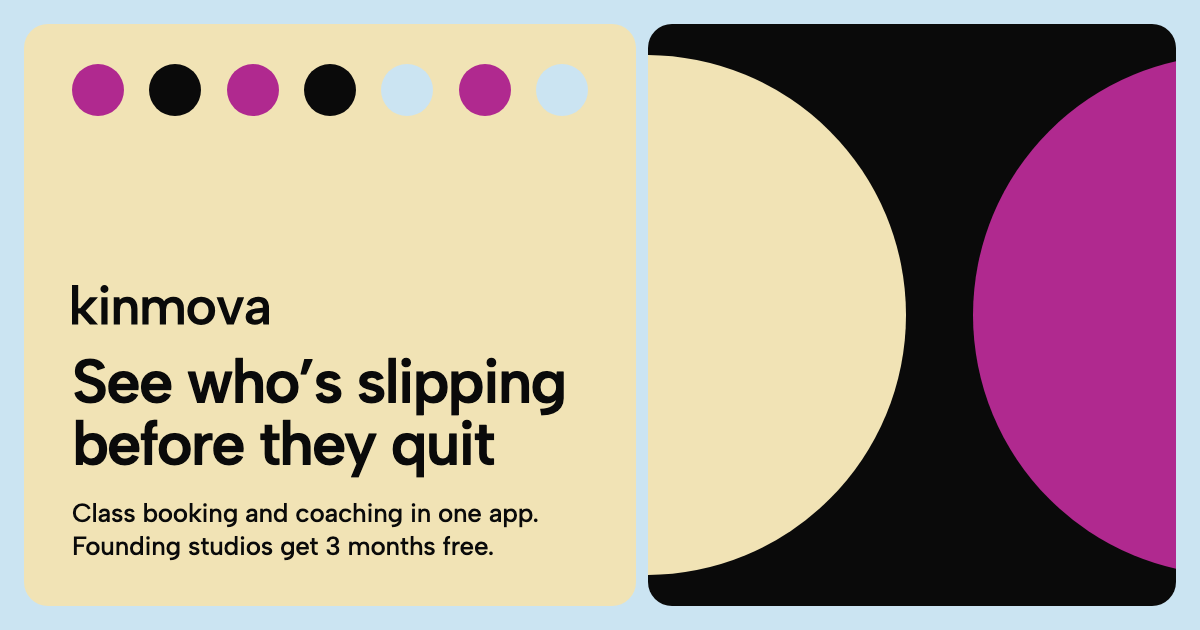
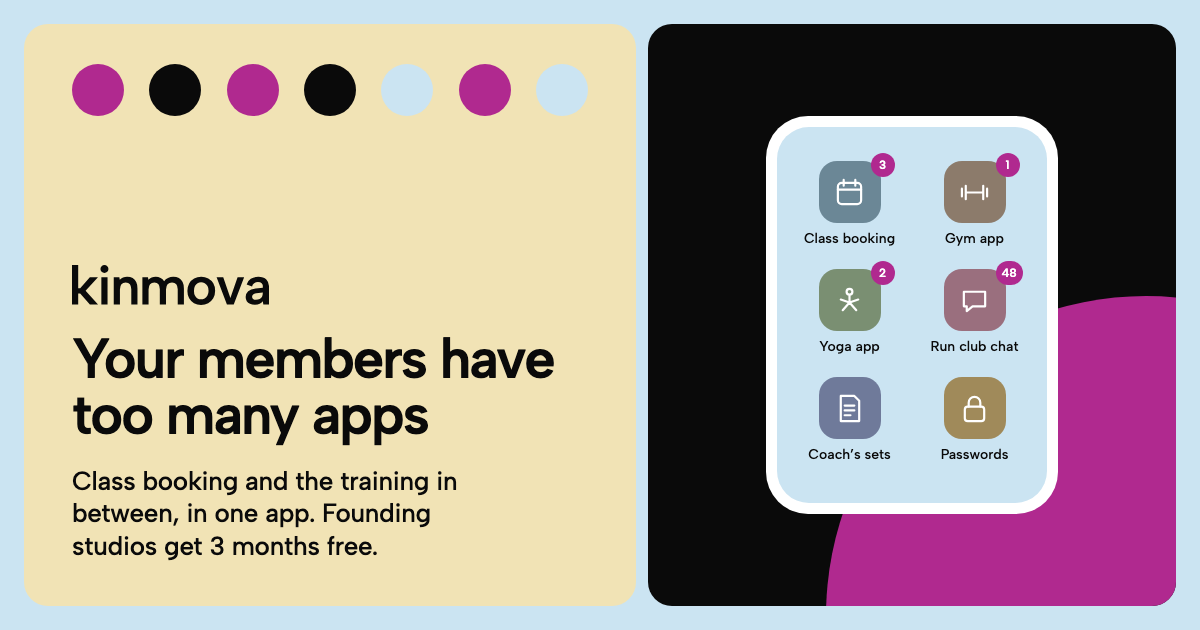
Update the link preview to "Your members have too many apps"
New share image (the phone of apps beside the headline), title,
description and alt text. The image URL carries ?v=2 so apps that
cached the old picture fetch the new one.

diff --git a/brand/social-source.html b/brand/social-source.html
@@ -12,12 +12,18 @@
   .week i { width: 52px; height: 52px; border-radius: 50%; display: block; }
   .t { background: #b0298f; } .c { background: #0a0a0a; } .r { background: #cbe4f2; }
   .word { margin-top: auto; height: 40px; width: auto; align-self: flex-start; }
-  h1 { margin: 26px 0 0; font-weight: 600; font-size: 62px; line-height: 1; letter-spacing: -0.035em; }
-  p { margin: 22px 0 0; font-weight: 500; font-size: 26px; line-height: 1.25; letter-spacing: -0.01em; }
+  h1 { margin: 26px 0 0; font-weight: 600; font-size: 56px; line-height: 1; letter-spacing: -0.035em; }
+  p { margin: 22px 0 0; font-weight: 500; font-size: 26px; line-height: 1.25; letter-spacing: -0.01em; text-wrap: balance; }
   .stage { position: relative; overflow: hidden; background: #0a0a0a; border-radius: 24px; }
-  .stage i { position: absolute; border-radius: 50%; display: block; }
-  .stage .sand { width: 520px; height: 520px; background: #f1e3b5; left: -262px; top: 31px; }
-  .stage .mag { width: 520px; height: 520px; background: #b0298f; left: 325px; top: 31px; }
+  .stage .mag { position: absolute; width: 640px; height: 640px; border-radius: 50%; background: #b0298f; right: -290px; bottom: -330px; }
+  /* A member's phone today: generic apps only, as on the page's hero */
+  .phone { position: absolute; left: 50%; top: 50%; translate: -50% -50%; width: 270px; padding: 11px; border-radius: 42px; background: #fff; }
+  .screen { border-radius: 32px; background: #cbe4f2; padding: 34px 14px 40px; display: grid; grid-template-columns: 1fr 1fr; gap: 22px 8px; font-family: "Albert Sans", sans-serif; }
+  .app { position: relative; display: grid; justify-items: center; gap: 7px; font-size: 14px; font-weight: 500; color: #0a0a0a; }
+  .app b { width: 62px; height: 62px; border-radius: 18px; display: grid; place-items: center; }
+  .app svg { width: 31px; height: 31px; fill: none; stroke: #fff; stroke-width: 4.5; stroke-linecap: round; stroke-linejoin: round; }
+  .app em { position: absolute; top: -8px; left: calc(50% + 21px); min-width: 24px; height: 24px; padding: 0 6px; border-radius: 12px; background: #b0298f; color: #fff; font: 600 12px/24px "Albert Sans", sans-serif; font-style: normal; text-align: center; box-sizing: border-box; }
+  .a1 { background: #6b8796; } .a2 { background: #8c7b6b; } .a3 { background: #7a8f72; } .a4 { background: #9a6f7e; } .a5 { background: #6f7a9a; } .a6 { background: #a08a5a; }
 </style>
 </head>
 <body>
@@ -25,10 +31,19 @@
   <div class="card">
     <div class="week"><i class="t"></i><i class="c"></i><i class="t"></i><i class="c"></i><i class="r"></i><i class="t"></i><i class="r"></i></div>
     <img class="word" src="kinmova-wordmark.svg" alt="kinmova">
-    <h1>See who’s slipping<br>before they quit</h1>
-    <p>Class booking and coaching in one app. Founding studios get 3 months free.</p>
+    <h1>Your members have<br>too many apps</h1>
+    <p>Class booking and the training in between, in one app. Founding studios get 3 months free.</p>
   </div>
-  <div class="stage"><i class="sand"></i><i class="mag"></i></div>
+  <div class="stage"><i class="mag"></i>
+    <div class="phone"><div class="screen">
+      <span class="app"><b class="a1"><svg viewBox="0 0 64 64"><rect x="8" y="12" width="48" height="44" rx="8"/><path d="M8 26h48M20 6v12M44 6v12"/></svg></b>Class booking<em>3</em></span>
+      <span class="app"><b class="a2"><svg viewBox="0 0 64 64"><path d="M6 24v16M14 18v28M50 18v28M58 24v16M14 32h36"/></svg></b>Gym app<em>1</em></span>
+      <span class="app"><b class="a3"><svg viewBox="0 0 64 64"><circle cx="32" cy="14" r="6"/><path d="M32 22v14M14 30l18 6 18-6M18 52l14-16 14 16"/></svg></b>Yoga app<em>2</em></span>
+      <span class="app"><b class="a4"><svg viewBox="0 0 64 64"><path d="M10 14h44v30H28l-12 10V44h-6z"/></svg></b>Run club chat<em>48</em></span>
+      <span class="app"><b class="a5"><svg viewBox="0 0 64 64"><path d="M14 6h28l10 10v42H14z"/><path d="M22 26h20M22 36h20M22 46h12"/></svg></b>Coach’s sets</span>
+      <span class="app"><b class="a6"><svg viewBox="0 0 64 64"><rect x="12" y="28" width="40" height="30" rx="6"/><path d="M20 28v-8a12 12 0 0 1 24 0v8"/></svg></b>Passwords</span>
+    </div></div>
+  </div>
 </div>
 </body>
 </html>

diff --git a/index.html b/index.html
@@ -12,14 +12,14 @@
 <link rel="canonical" href="https://kinmova.app/">
 <meta property="og:type" content="website">
 <meta property="og:url" content="https://kinmova.app/">
-<meta property="og:title" content="Kinmova: see who’s slipping before they quit">
-<meta property="og:description" content="Class booking and coaching in one app, for small studios and clubs. Founding studios get 3 months free.">
-<meta property="og:image" content="https://kinmova.app/brand/social.png">
+<meta property="og:title" content="Kinmova: your members have too many apps">
+<meta property="og:description" content="Class booking and the training in between, in one app, with one account at every studio on Kinmova. Founding studios get 3 months free.">
+<meta property="og:image" content="https://kinmova.app/brand/social.png?v=2">
 <meta property="og:image:width" content="1200">
 <meta property="og:image:height" content="630">
-<meta property="og:image:alt" content="The Kinmova week of dots and the line See who’s slipping before they quit">
+<meta property="og:image:alt" content="A member’s phone full of separate apps beside the line Your members have too many apps">
 <meta name="twitter:card" content="summary_large_image">
-<meta name="twitter:image" content="https://kinmova.app/brand/social.png">
+<meta name="twitter:image" content="https://kinmova.app/brand/social.png?v=2">
 <script>(function (d) { d.classList.add('js'); if (/[?&]for=members?\b/.test(location.search)) d.dataset.view = 'member'; })(document.documentElement)</script>
 <link rel="preconnect" href="https://fonts.googleapis.com">
 <link rel="preconnect" href="https://fonts.gstatic.com" crossorigin>
